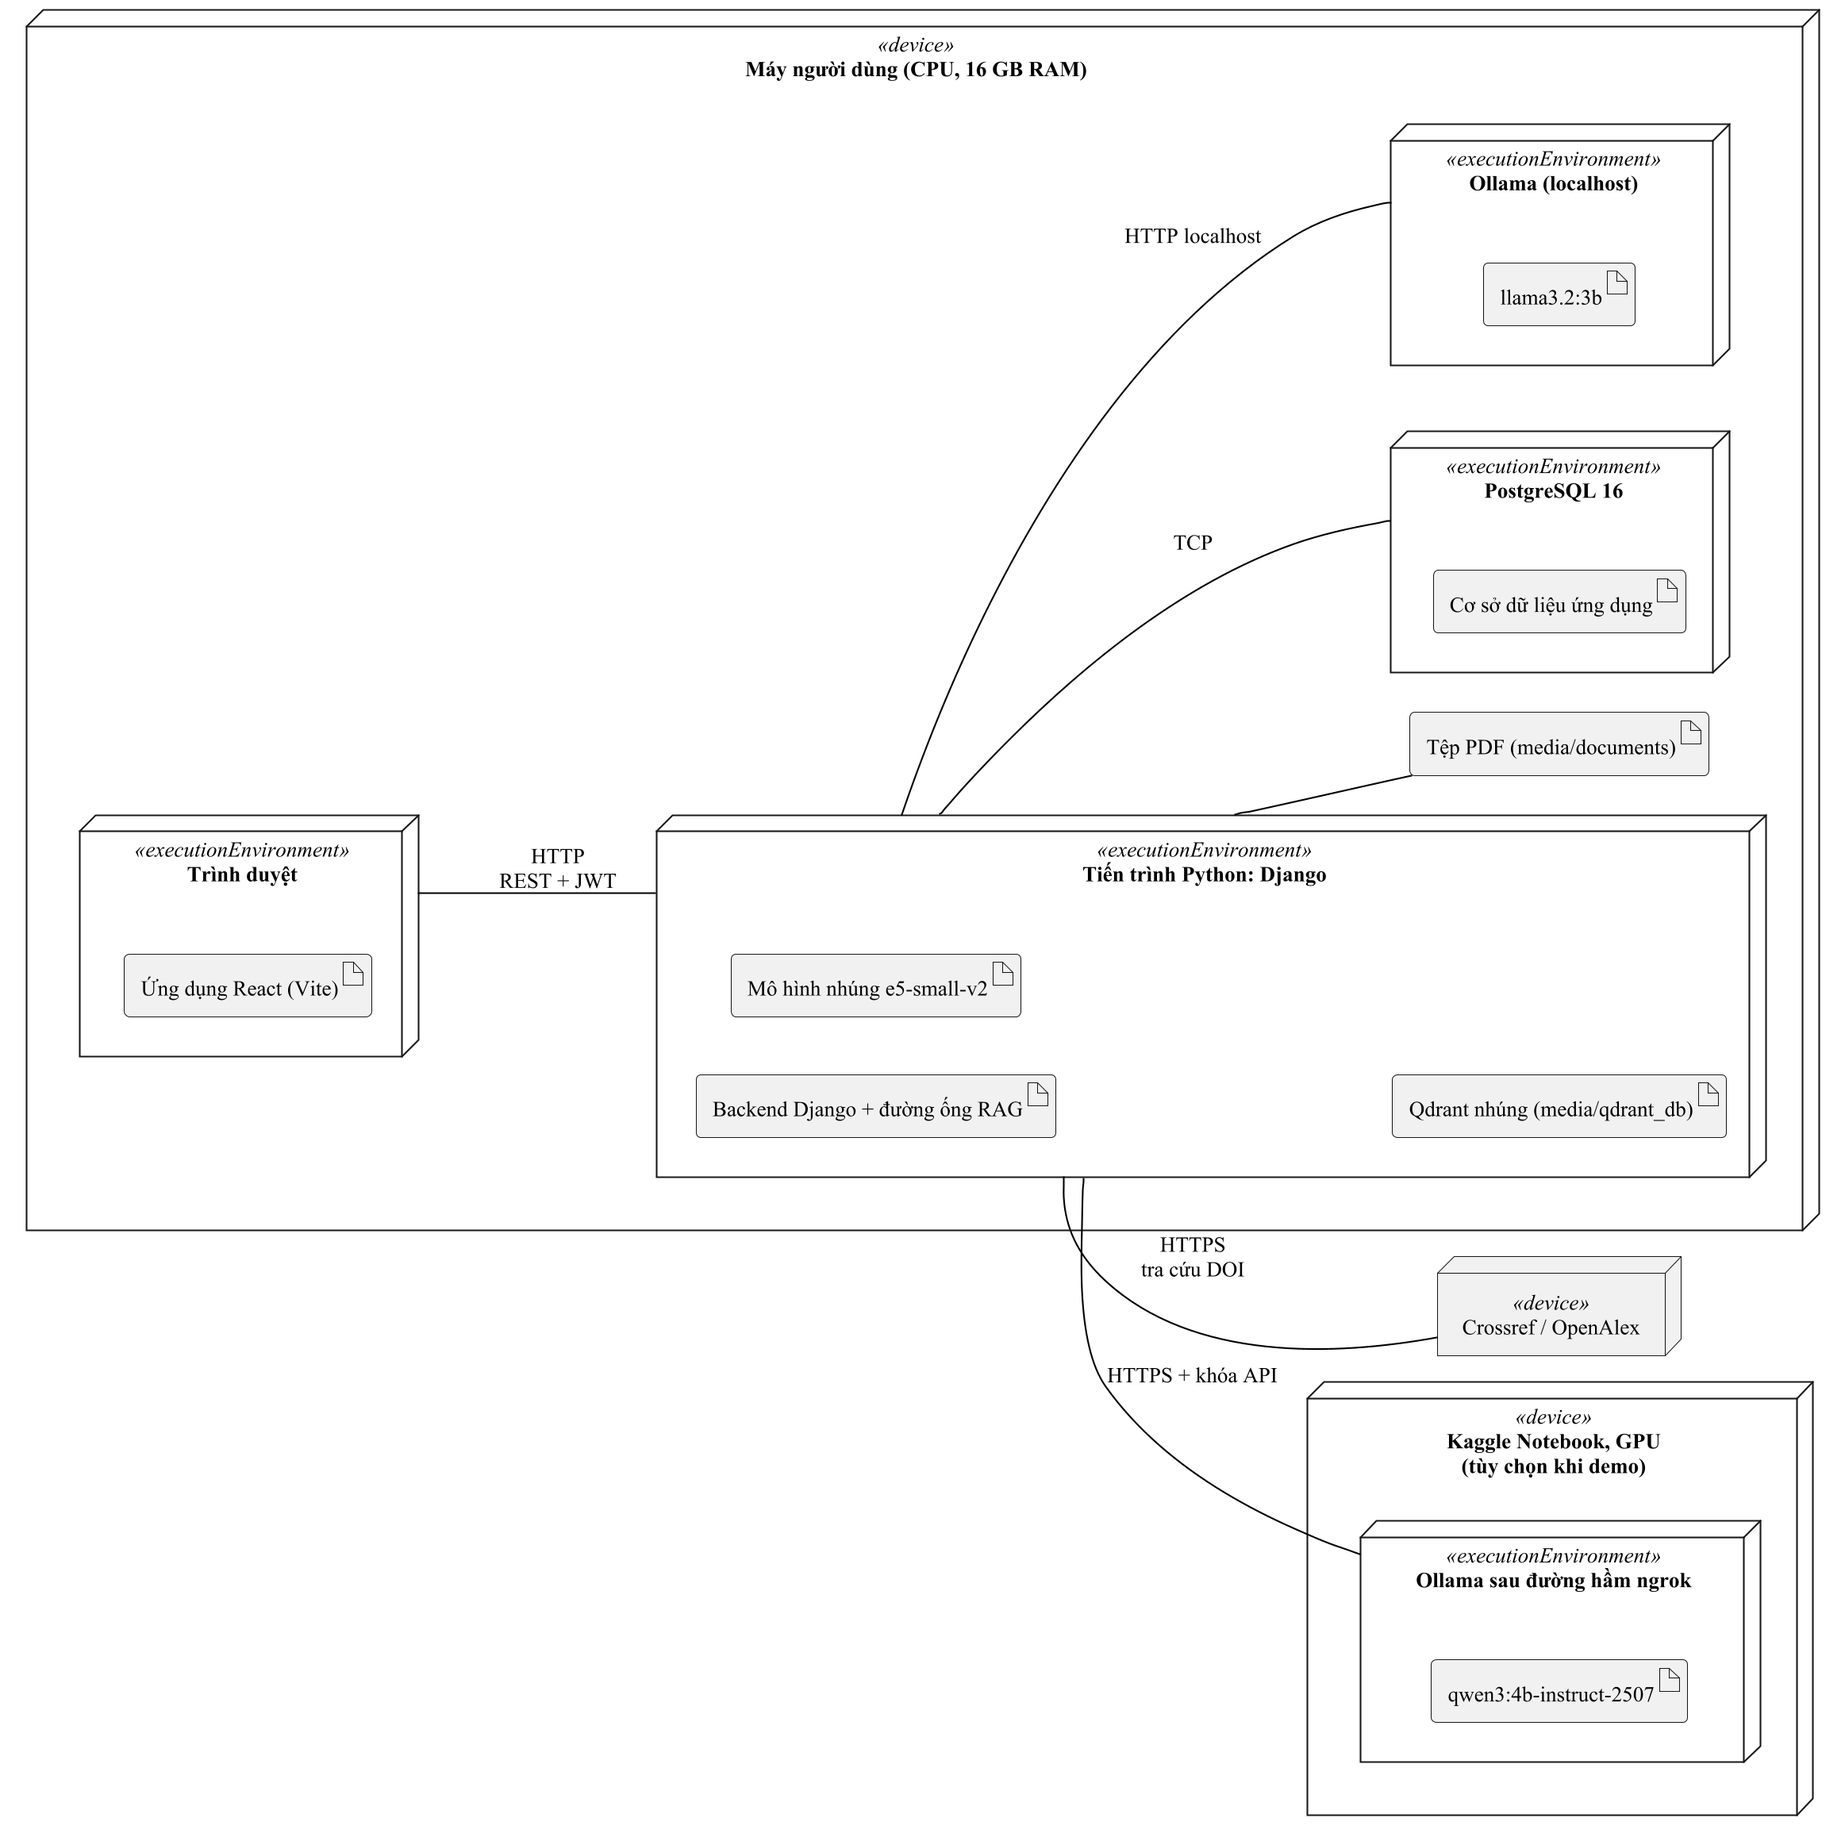
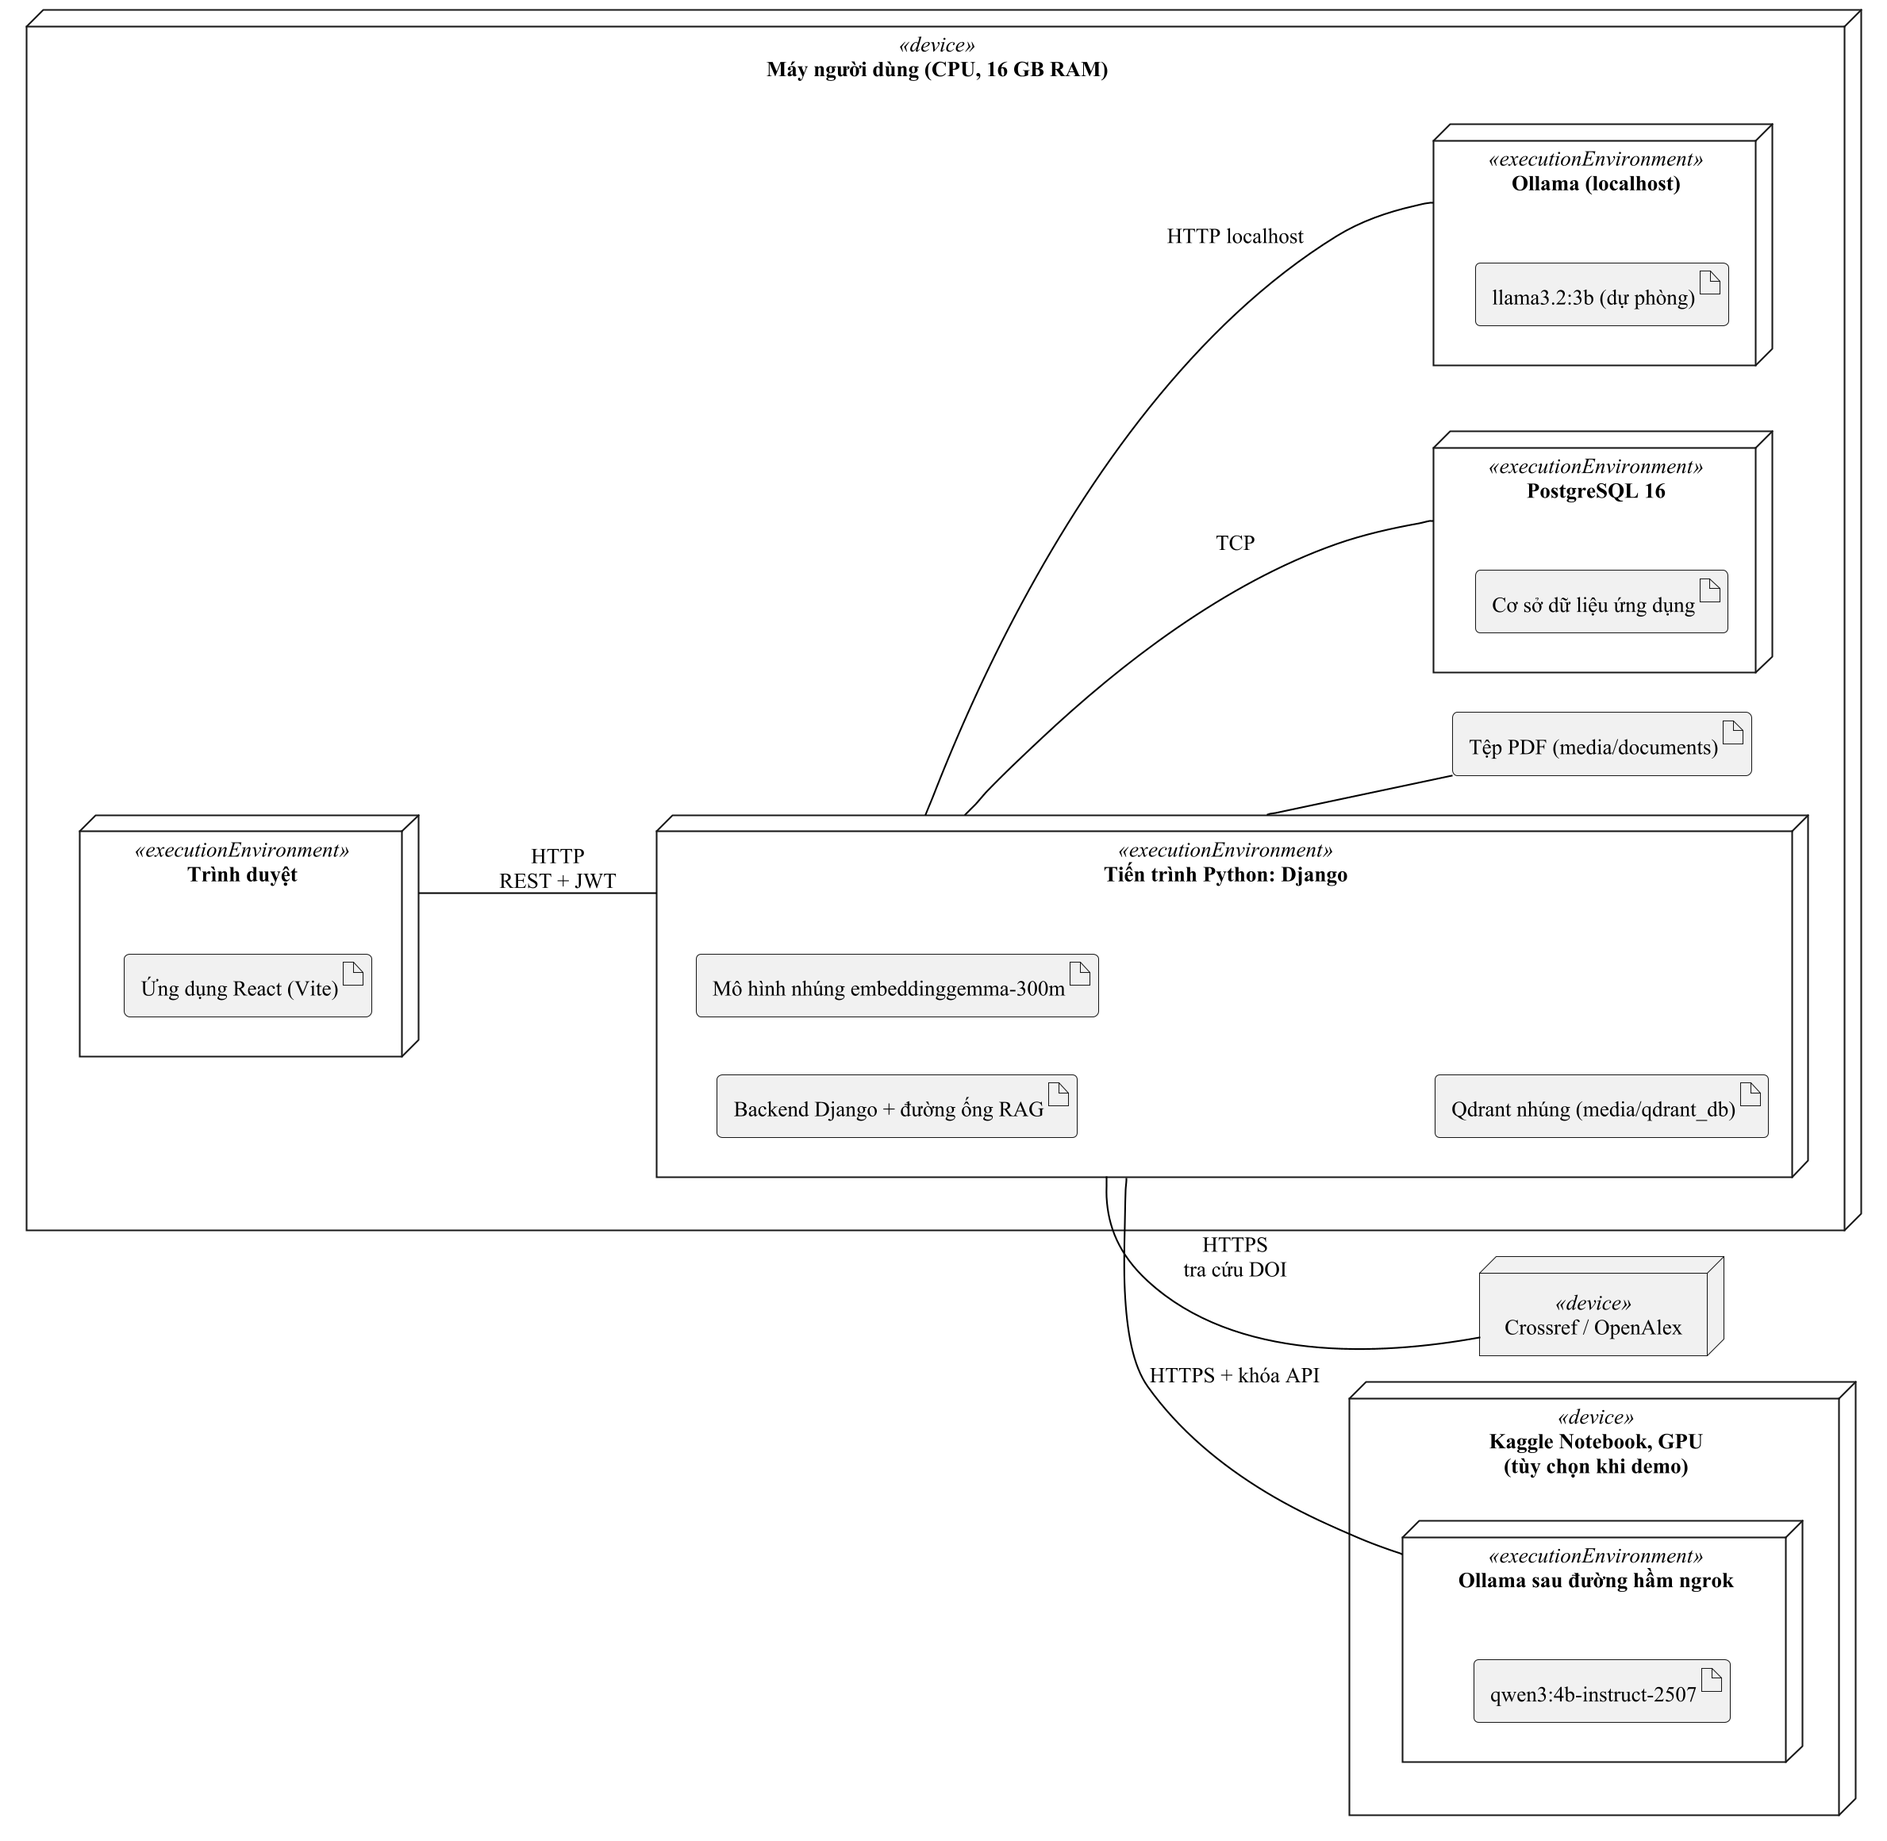
Thesis and eval: convex retrieval choice, CPU timing and gate calibration, redrawn charts and updated diagrams

diff --git a/eval/scripts/make_thesis_figures.py b/eval/scripts/make_thesis_figures.py
@@ -53,7 +53,7 @@ def hbars(ax, labels, values, highlight, fmt="{:.3f}", xlabel=""):
     ax.grid(axis="y", visible=False)
     span = max(values) if max(values) > 0 else 1
     for yi, v in zip(y, values):
-        ax.text(v + span * 0.015, yi, fmt.format(v), va="center", color=INK, fontsize=8)
+        ax.text(v + span * 0.015, yi, fmt.format(v), va="center", color=INK, fontsize=8.5)
     ax.set_xlim(0, span * 1.18)
     ax.set_xlabel(xlabel)
 
@@ -70,7 +70,7 @@ def fig_qasper():
             w = sum(len(par.split()) for sec in p["full_text"] for par in sec["paragraphs"])
             if w > 0:
                 words.append(w)
-    fig, axes = plt.subplots(1, 3, figsize=(11, 3.2))
+    fig, axes = plt.subplots(3, 1, figsize=(6.3, 7.4))
     labels = {"extractive": "Trích xuất", "abstractive": "Tự diễn đạt", "yes_no": "Có/Không", "unanswerable": "Không trả lời được"}
     keys = ["extractive", "abstractive", "yes_no", "unanswerable"]
     total = sum(qt.values())
@@ -81,7 +81,7 @@ def fig_qasper():
     med = float(np.median(words))
     ax.axvline(med, color=INK2, linestyle="--", linewidth=1)
     ax.annotate(f"trung vị {med:,.0f} từ", xy=(med, ax.get_ylim()[1] * 0.8), xytext=(7000, ax.get_ylim()[1] * 0.8),
-                fontsize=7.5, color=INK2, va="center", arrowprops={"arrowstyle": "-", "color": INK2, "linewidth": 0.8})
+                fontsize=8.5, color=INK2, va="center", arrowprops={"arrowstyle": "-", "color": INK2, "linewidth": 0.8})
     ax.set_xlabel(f"Độ dài bài báo (số từ; {len(words):,} bài)")
     ax.set_ylabel("Số bài báo")
     ax.grid(axis="x", visible=False)
@@ -103,7 +103,7 @@ def fig_extraction():
     rec = [s[n]["evidence_recall"] for n in names]
     ms = [s[n]["timing"]["ms_per_page"] for n in names]
     hl = [n == "pymupdf_layout" for n in names]
-    fig, axes = plt.subplots(1, 3, figsize=(10.5, 3.2))
+    fig, axes = plt.subplots(3, 1, figsize=(6.3, 7.0))
     hbars(axes[0], labels, rec, hl, xlabel="Độ phủ bằng chứng")
     y = np.arange(len(names))[::-1]
     srcs = [("text", "Văn bản"), ("table", "Bảng"), ("formula", "Công thức")]
@@ -114,11 +114,9 @@ def fig_extraction():
     axes[1].set_xlim(0, 100)
     axes[1].set_xlabel("LCS (%) theo loại nguồn bằng chứng")
     axes[1].grid(axis="y", visible=False)
-    axes[1].legend(loc="lower center", bbox_to_anchor=(0.5, 1.0), ncol=3, fontsize=7)
+    axes[1].set_yticks(y, labels)
+    axes[1].legend(loc="lower center", bbox_to_anchor=(0.5, 1.0), ncol=3, fontsize=8.5)
     hbars(axes[2], labels, ms, hl, fmt="{:.1f}", xlabel="ms/trang")
-    for ax in axes[1:]:
-        ax.set_yticks(y, [""] * len(y))
-        ax.tick_params(axis="y", length=0)
     save(fig, "fig5_2_extraction_ohr.png")
 
 
@@ -154,7 +152,7 @@ def fig_retrieval_grid(cohort="c_ret"):
     nd, src = phase2_ndcg(cohort)
     models = [m for m in ["e5", "arctic", "modernbert", "gemma", "qwen"] if any(k[1] == m for k in nd)]
     chunkers = [("hierarchical", "hierarchical"), ("fixed_size", "fixed_size"), ("section_overlap", "section_overlap")]
-    fig, ax = plt.subplots(figsize=(7.2, 3.6))
+    fig, ax = plt.subplots(figsize=(6.3, 4.2))
     y = np.arange(len(models))[::-1]
     h = 0.26
     for j, (ck, name) in enumerate(chunkers):
@@ -163,13 +161,13 @@ def fig_retrieval_grid(cohort="c_ret"):
         ax.barh(yy, v, height=h, color=C[j], edgecolor=SURF, linewidth=1, label=name)
         for yi, vi in zip(yy, v):
             if not np.isnan(vi):
-                ax.text(vi + 0.008, yi, f"{vi:.3f}", va="center", fontsize=7, color=INK)
+                ax.text(vi + 0.008, yi, f"{vi:.3f}", va="center", fontsize=8, color=INK)
     ax.set_yticks(y, [P2_LABELS[m] for m in models])
-    ax.set_xlim(0, 0.82)
+    ax.set_xlim(0, 0.86)
     ax.set_xlabel("nDCG@10 (C-RET, 335 bài báo; truy xuất dense)" if cohort == "c_ret"
-                  else "nDCG@10 (PeerQA, 107 bài báo, văn bản trích xuất từ PDF; truy xuất dense)")
+                  else "nDCG@10 (PeerQA, 107 bài báo, văn bản từ PDF; truy xuất dense)")
     ax.grid(axis="y", visible=False)
-    ax.legend(loc="lower center", bbox_to_anchor=(0.5, 1.0), ncol=3, fontsize=7.5)
+    ax.legend(loc="lower center", bbox_to_anchor=(0.5, 1.0), ncol=3, fontsize=8.5)
     print("  phase 2 source:", src)
     save(fig, "fig5_3_retrieval_grid.png" if cohort == "c_ret" else "fig5_4_retrieval_grid_peerqa.png")
 
@@ -181,7 +179,7 @@ def fig_phase3_tradeoff():
     fam = {"dense": ("dense", C[0]), "rrf": ("rrf / convex", C[1]), "convex": ("rrf / convex", C[1]),
            "dense+minilm": ("+ MiniLM", C[2]), "convex+minilm": ("+ MiniLM", C[2]),
            "dense+bgem3": ("+ bge-reranker-v2-m3", C[4]), "convex+bgem3": ("+ bge-reranker-v2-m3", C[4])}
-    fig, axes = plt.subplots(1, 2, figsize=(7.4, 3.5), sharey=True)
+    fig, axes = plt.subplots(1, 2, figsize=(6.3, 4.0), sharey=True)
     for ax, (key, title) in zip(axes, [("c_ret", "C-RET (566 câu hỏi)"), ("peerqa_pdf", "PeerQA (284 câu hỏi)")]):
         c = d["cohorts"][key]
         lat = c["latency_ms_p50"]
@@ -194,19 +192,19 @@ def fig_phase3_tradeoff():
                 ax.scatter(x, v, s=22, color=col, edgecolor=SURF, linewidth=0.8, zorder=3,
                            label=name if name not in seen else None)
                 seen.add(name)
-                if emb == "gemma" and arm == "dense":
+                if emb == "gemma" and arm == "convex":
                     ax.scatter(x, v, s=90, facecolor="none", edgecolor=INK, linewidth=1.0, zorder=4)
-                    ax.annotate("embeddinggemma\ndense (chọn)", (x, v), xytext=(8, -26), textcoords="offset points",
-                                fontsize=7, color=INK, arrowprops={"arrowstyle": "-", "color": INK2, "lw": 0.6})
+                    ax.annotate("embeddinggemma\nconvex (chọn)", (x, v), xytext=(28, -48), textcoords="offset points",
+                                fontsize=8, color=INK, arrowprops={"arrowstyle": "-", "color": INK2, "lw": 0.6})
         ax.scatter(lat["bm25"], c["bm25"], s=22, marker="s", color=GREY, edgecolor=SURF, linewidth=0.8, zorder=3,
                    label="BM25")
         ax.set_xscale("log")
-        ax.set_title(title, fontsize=9, color=INK)
-        ax.set_xlabel("Độ trễ truy xuất (ms, thang log, GPU T4)")
+        ax.set_title(title, fontsize=9.5, color=INK)
+        ax.set_xlabel("Độ trễ truy xuất\n(ms, thang log, GPU T4)")
     axes[0].set_ylabel("nDCG@10")
     h, lab = axes[0].get_legend_handles_labels()
-    fig.legend(h, lab, loc="upper center", ncol=5, fontsize=7.5, bbox_to_anchor=(0.5, 1.0))
-    fig.tight_layout(rect=(0, 0, 1, 0.92))
+    fig.legend(h, lab, loc="upper center", ncol=3, fontsize=8.5, bbox_to_anchor=(0.5, 1.0))
+    fig.tight_layout(rect=(0, 0, 1, 0.86))
     fig.savefig(OUT / "fig5_5_phase3_tradeoff.png", dpi=300)
     plt.close(fig)
     print("wrote fig5_5_phase3_tradeoff.png")
@@ -223,13 +221,10 @@ def fig_generation():
     rows.sort(key=lambda r: -r[1])
     labels = [r[0] for r in rows]
     hl = [r[0] in ("llama3.2:3b", "qwen2.5:1.5b") for r in rows]
-    fig, axes = plt.subplots(1, 3, figsize=(10.5, 2.8))
+    fig, axes = plt.subplots(3, 1, figsize=(6.3, 6.6))
     hbars(axes[0], labels, [r[1] for r in rows], hl, xlabel="Token F1")
     hbars(axes[1], labels, [r[2] for r in rows], hl, fmt="{:.0%}", xlabel="Tỷ lệ từ chối trả lời")
     hbars(axes[2], labels, [r[3] for r in rows], hl, fmt="{:.1f} s", xlabel="Độ trễ P50 (s)")
-    for ax in axes[1:]:
-        ax.set_yticklabels([])
-        ax.tick_params(axis="y", length=0)
     save(fig, "fig5_10_generation.png")
 
 
@@ -241,7 +236,7 @@ def fig_human():
             ("Không căn cứ / mâu thuẫn", ["UNSUPPORTED", "CONTRADICTED"]),
             ("Từ chối hợp lệ", ["REFUSAL_VALID"]), ("Từ chối không cần thiết", ["MISSING_INFO - UNJUSTIFIED_REFUSAL"])]
     models = ["llama3.2:3b", "llama3.2:1b", "qwen2.5:0.5b", "qwen2.5:1.5b", "phi4-mini"]
-    fig, ax = plt.subplots(figsize=(7.2, 3.2))
+    fig, ax = plt.subplots(figsize=(6.3, 3.6))
     y = np.arange(len(models))[::-1]
     left = np.zeros(len(models))
     for j, (lab, keys) in enumerate(cats):
@@ -257,7 +252,7 @@ def fig_human():
     ax.set_xticks(range(0, 21, 5))
     ax.set_xlabel("Số câu trả lời (20 câu hỏi mỗi mô hình, một người đánh giá)")
     ax.grid(axis="y", visible=False)
-    ax.legend(ncol=3, loc="upper center", bbox_to_anchor=(0.5, 1.32), fontsize=7.5)
+    ax.legend(ncol=2, loc="upper center", bbox_to_anchor=(0.5, 1.40), fontsize=8.5)
     save(fig, "fig5_11_human_check.png")
 
 

diff --git a/eval/README.md b/eval/README.md
@@ -145,7 +145,8 @@ Retrieval latency per question, p50 on the T4 GPUs (C-RET / PeerQA): `dense` 0.0
   - Rerankers: `bge-reranker-v2-m3` gives the best or near-best value for every embedder and brings them together (0.743–0.747 on C-RET, 0.754–0.757 on PeerQA), as expected. MiniLM helps the weaker embedders but **lowers** gemma on C-RET (0.744 → 0.734). MiniLM was trained on short MS MARCO passages and scores only the first 512 tokens of each pair (plausible, not tested).
   - The gains are small relative to the cost: on C-RET the best arm (0.747) is 0.003 above gemma `dense` at roughly 1.5 s more per question; on PeerQA `gemma:convex+bgem3` is 0.038 above gemma `dense`.
 - **Application chat after this phase (2026-11-23, app only).** The chat endpoint uses `convex` with e5-small-v2, trims the last parent to fit the 1,600-token budget and points citations at the retrieved child that best matches the answer. On a hand-written set of 33 answerable questions over 3 demo papers (not an independent test), the evidence page was retrieved for 33/33 instead of 30/33. This combined change was not evaluated on C-RET or PeerQA; Phase 4 uses its saved `gemma:dense` contexts and is unaffected.
-- **Choice for Phase 4:** `gemma:dense` (C-RET 0.744, 0.003 below the best arm; PeerQA 0.719). It needs no BM25 index and no reranker, so the only change from the production pipeline is the embedder, and its retrieval cost is the lowest. `gemma:convex` (0.744 / 0.742) is the alternative when questions reuse the paper's wording (PeerQA-like), at about 1 ms more; `+bgem3` is not worth about 1.5–2 s per question for these gains.
+- **Application switched to embeddinggemma `convex` (2026-11-27, app only).** `EMBEDDING_MODEL=google/embeddinggemma-300m` (FastEmbed ONNX export; vectors match sentence-transformers, cosine 1.000 on 5 test texts), all documents re-indexed. The relevance gate was recalibrated because gemma similarities are much lower than e5's: on a hand-written set over 6 library papers (35 answerable, 90 off-topic, 159 cross-paper questions; not an independent test), e5 at 0.80 passes 35/35, 19/90 and 88/159; gemma at 0.30 passes 34/35, 1/90 and 69/159, so `RAG_MIN_SIMILARITY_SCORE=0.30`. CPU latency (local machine, 10 C-RET questions, Phase 4 prompt and options): `qwen3:4b` median 56 s (max 75 s) vs `llama3.2:3b` 34 s (max 64 s), so `qwen3:4b` runs on the Kaggle GPU and `llama3.2:3b` stays the CPU fallback (60 s timeout). Indexing with gemma on CPU: about 4.5 min for a 149-chunk paper (including about 50 s model load).
+- **Choice:** `gemma:convex` (C-RET 0.744, PeerQA 0.742). It is never below `dense` for any embedder on either dataset and is 0.023 above it on PeerQA, where questions reuse the paper's terms, for about 1 ms more; this fits the theory that keyword matching covers rare terms, names and numbers and makes retrieval depend less on how well the embedder suits a paper (Thakur et al., 2021; Bruch et al., 2023). The BM25 weight 0.3 was fixed in advance, not tuned. Phase 4 started from `gemma:dense` (lowest cost, 0.003 below the best arm on C-RET) and also ran `gemma:convex`, `gemma:convex+bgem3` and `e5:convex`; `convex` is the final choice after both datasets were considered. `+bgem3` is not worth about 1.5–2 s per question on a GPU (much more on the CPU where the app retrieves).
 
 ## 7. Phase 4: answer generation
 
@@ -203,7 +204,7 @@ Supported share by retrieval pipeline, all five models pooled (C-RET / PeerQA): 
 - Token F1 does not track groundedness: qwen2.5:1.5b has the highest F1 and the most unsupported answers (23.6% C-RET, 50.8% PeerQA, retrieved).
 - Retrieved context lowers C-RET Token F1 (by 0.013–0.068) as expected, but does not raise refusals (4 of 5 models refuse less). Supported explanation: REFUSAL_VALID falls from 12–18% (gold) to 5–12% (retrieved), so the bare QASPER evidence passages often lack the answer while whole retrieved sections carry the surrounding text. Why F1 falls while the supported share does not (different wording from the reference) was not tested.
 - PeerQA gold evidence is very short (median 348 characters vs 5,639 for retrieved context) and 34–40% of gold answers are valid refusals, so retrieved context gives higher F1 and fewer refusals for every model.
-- The retrieval pipeline has little effect (pooled supported share within 2.1 points on C-RET, 2.8 on PeerQA). On C-RET `gemma:dense` uses the single-answer prompt and the other pipelines the batched one, so part of these small gaps may come from the prompt.
+- The retrieval pipeline has little effect (pooled supported share within 2.1 points on C-RET, 2.8 on PeerQA). On C-RET `gemma:dense` was judged with the single-answer prompt and the other pipelines with the batched one; both prompts agree with the human labels at about the same level (80/100 and 82/100; 93/100 on three classes).
 
 **Choice:** `qwen3:4b-instruct-2507` (highest supported share with retrieved context on both datasets, few unsupported answers; slowest on the GPU, P50 about 2 s). `llama3.2:3b` stays as the local CPU fallback; qwen3:4b latency on CPU was not measured.
 
